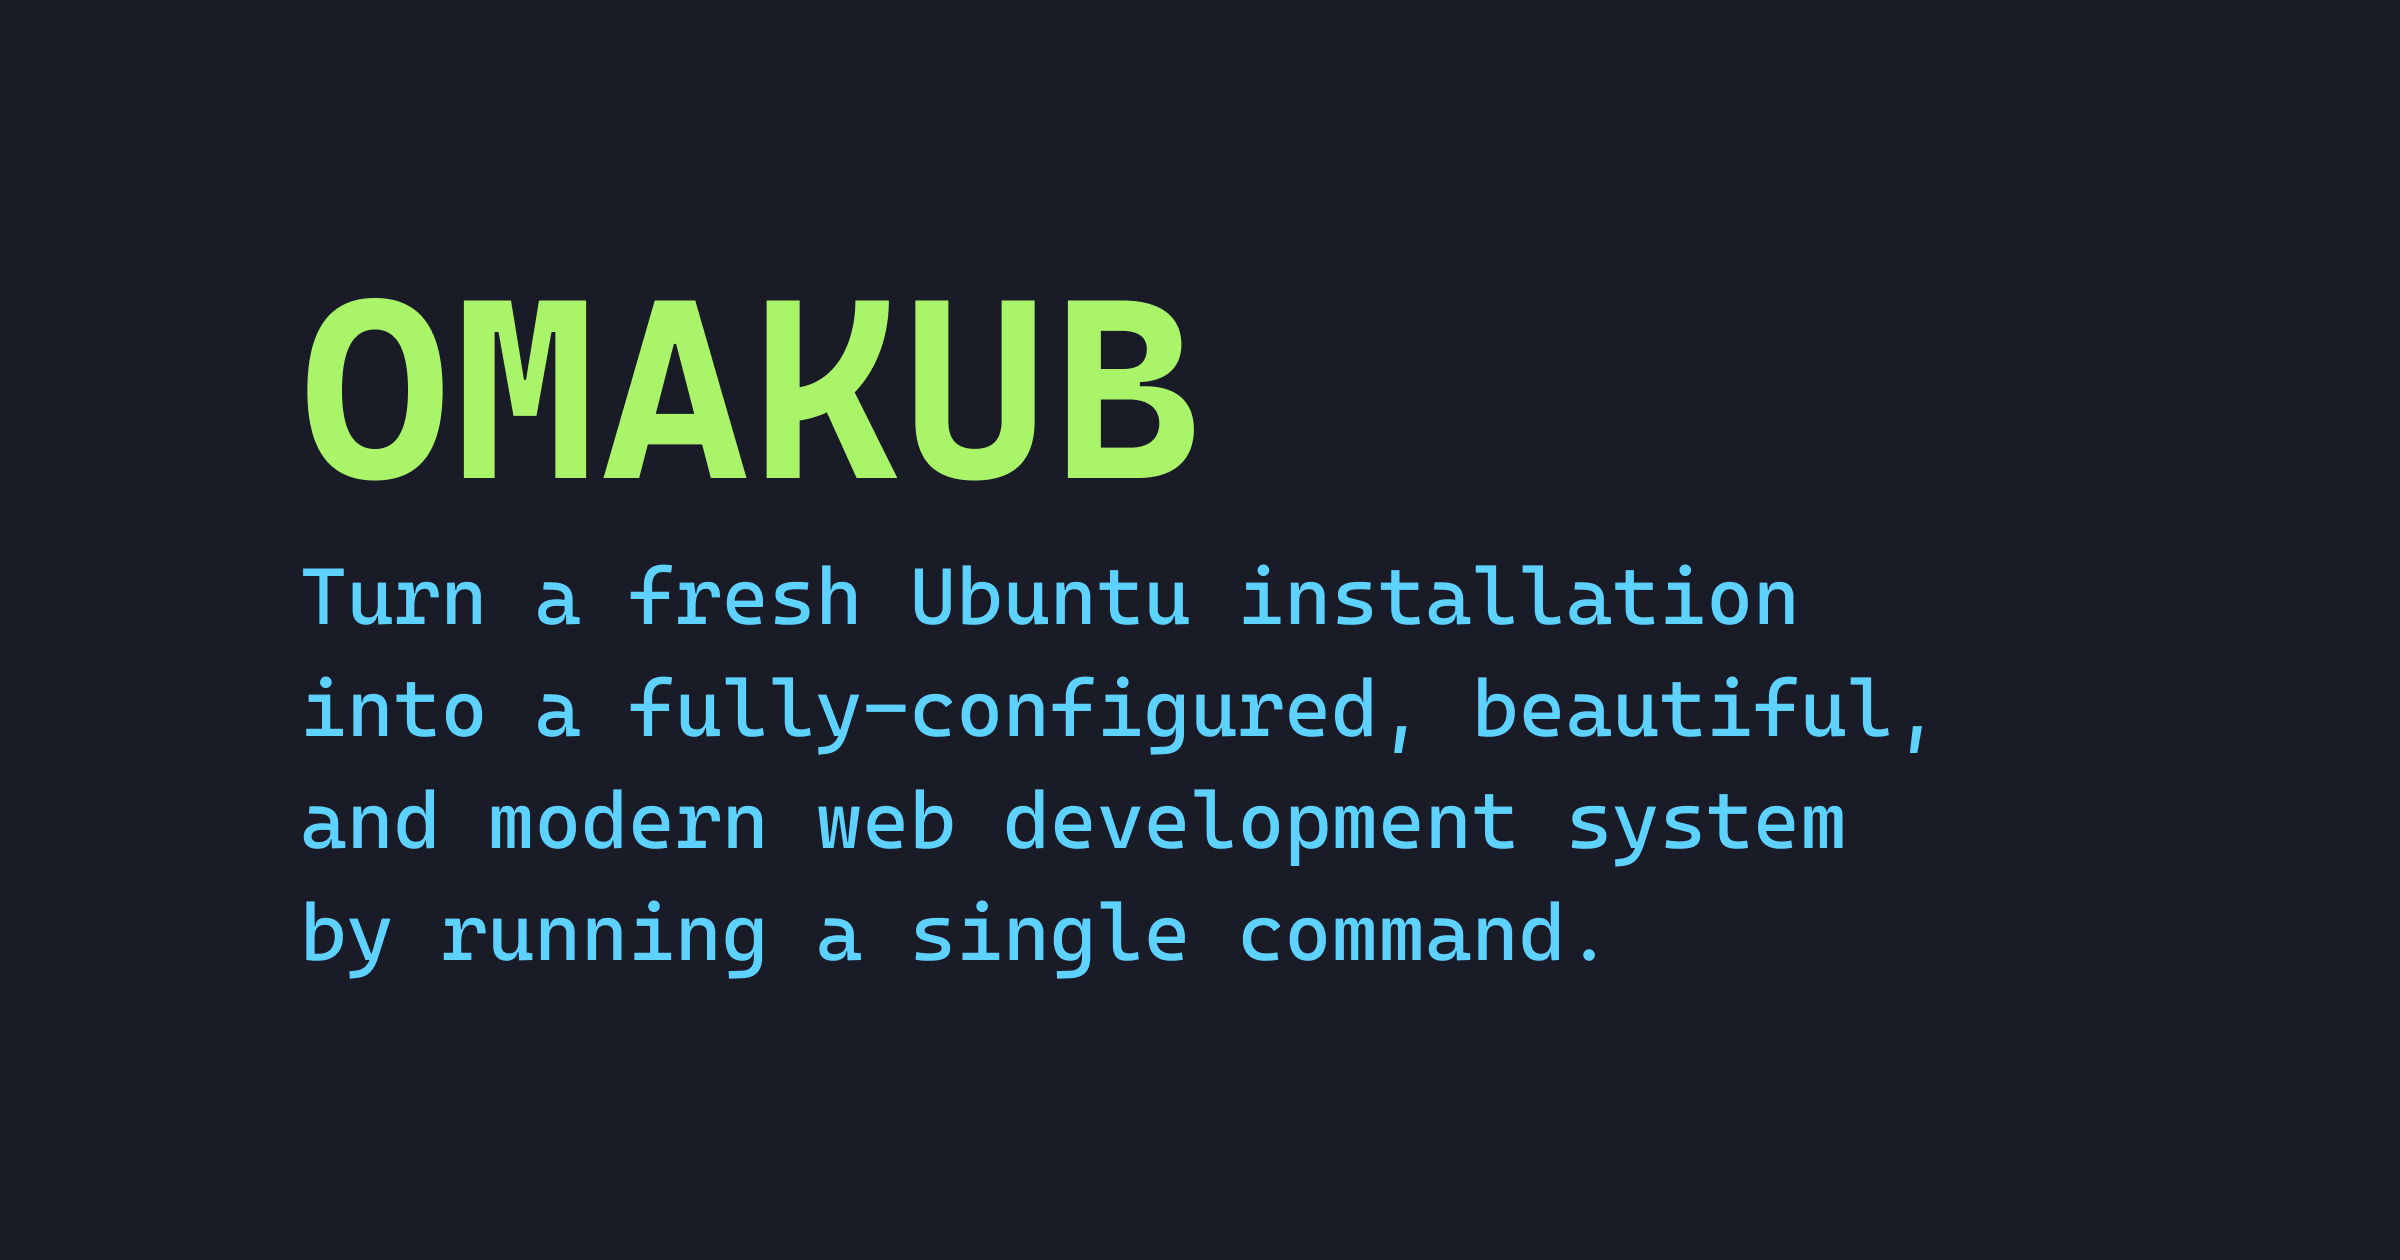
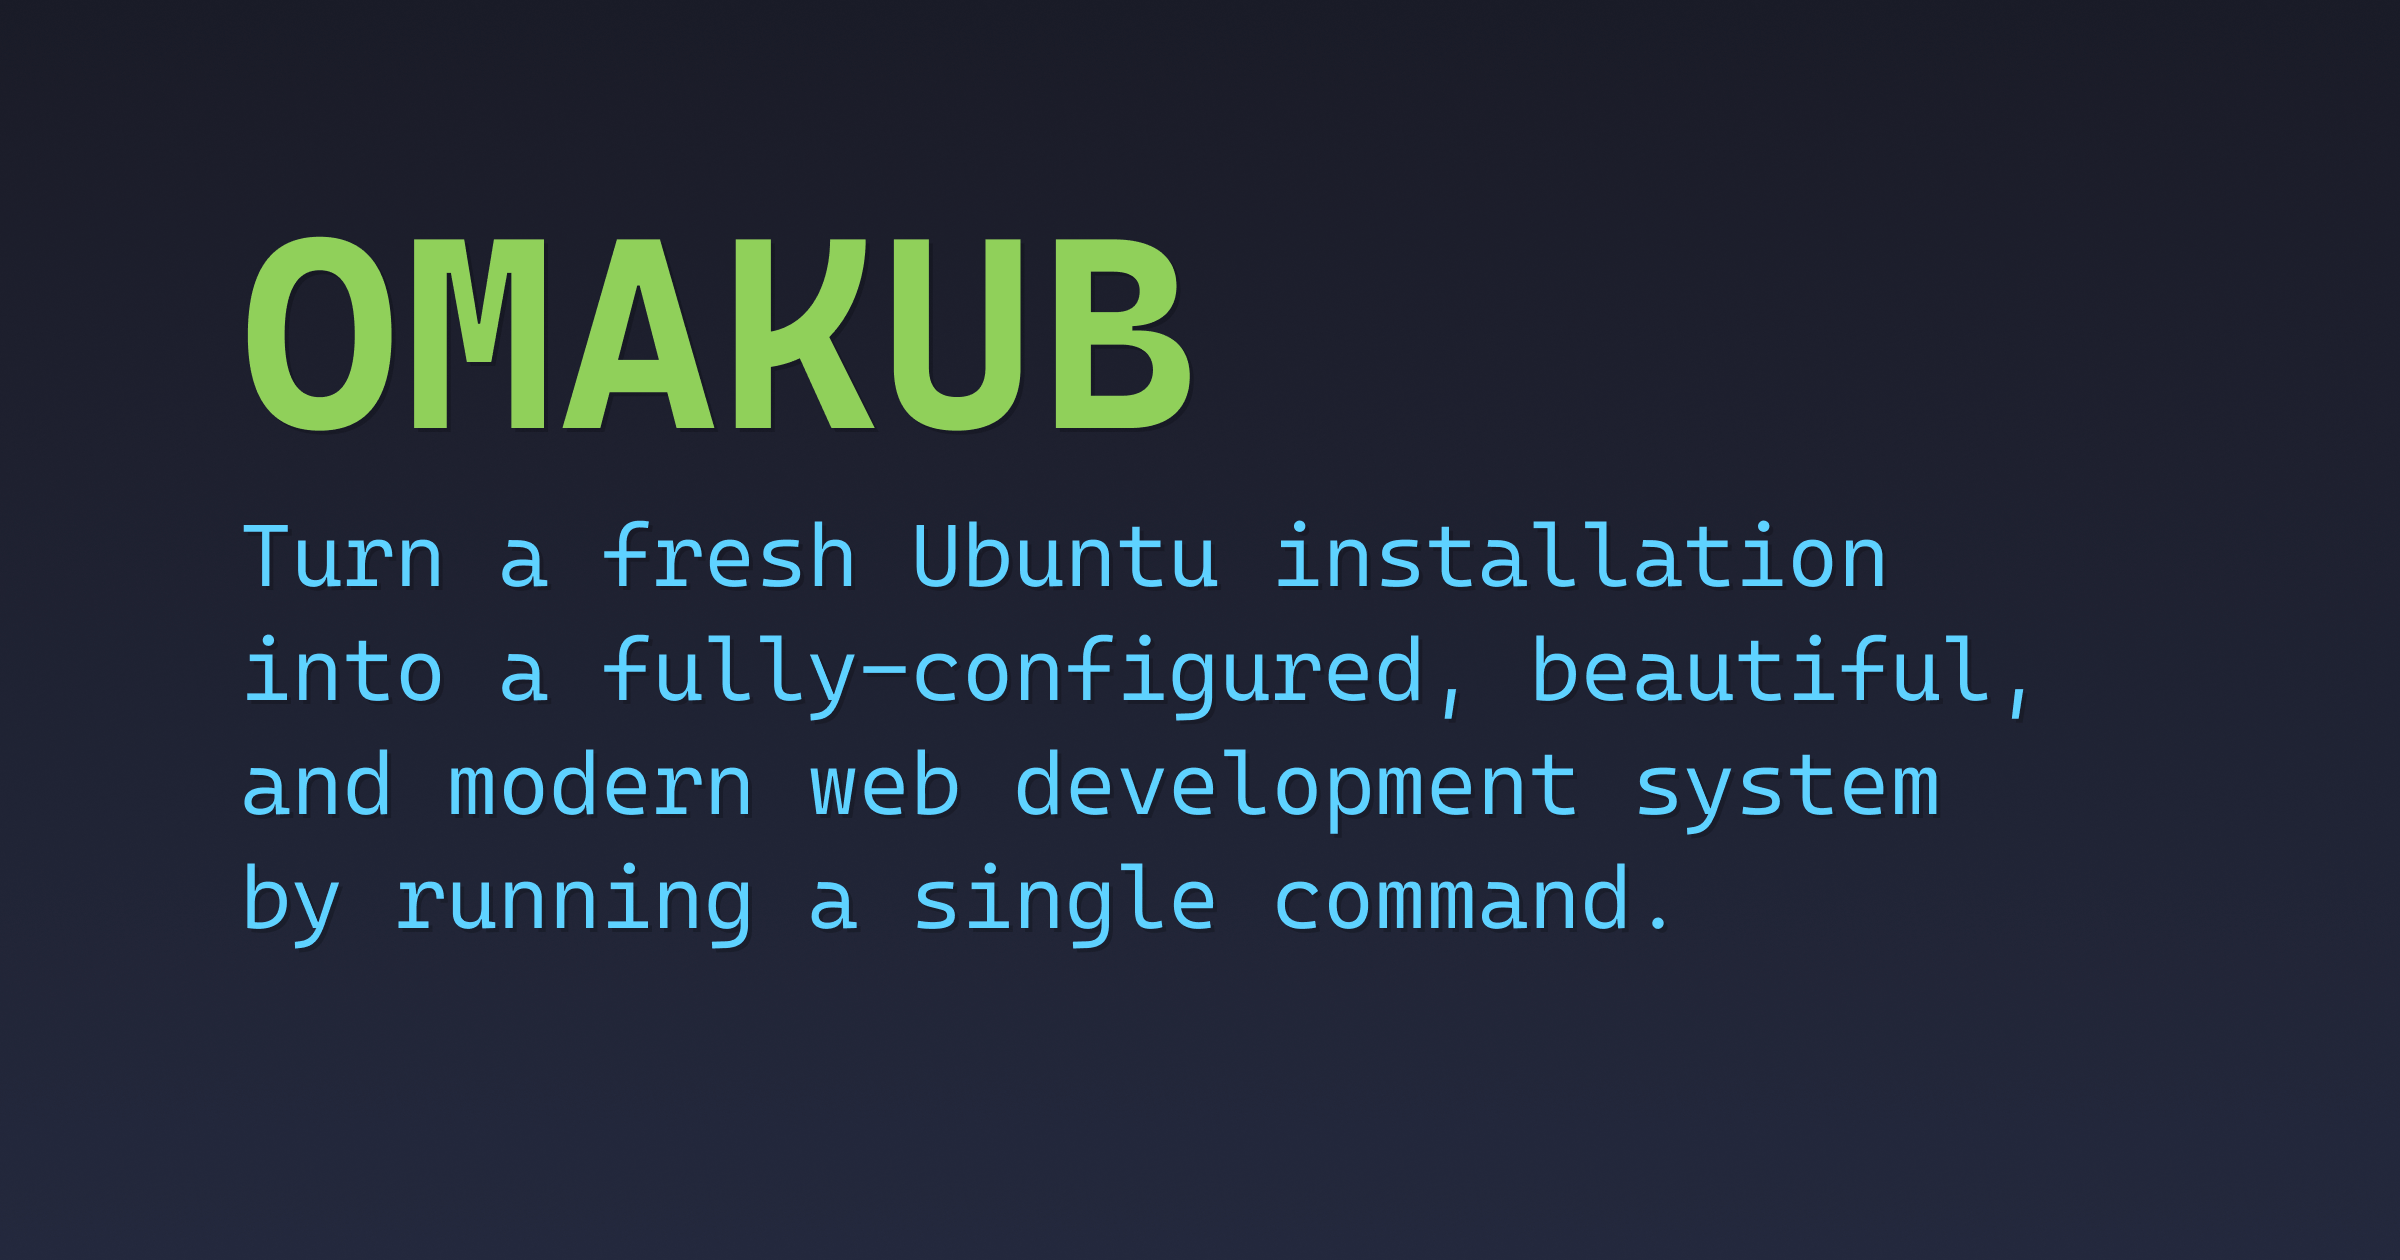
Update root colors

Changed region(s): [[0.0938, 0.1857, 0.8438, 0.7738]]

diff --git a/assets/sass/_article.scss b/assets/sass/_article.scss
@@ -28,7 +28,7 @@
   hr {
 
     --spacing: 0;
-    background: var(--color-dark-3);
+    background: var(--color-terminal-black);
     height: 2px;
     margin-bottom: 2.525em;
     margin-top: 2.625em;
@@ -44,47 +44,36 @@
     padding-left: 1.4em;
   }
 
-  a {
-    color: var(--color-blue);
-    font-weight: 700;
-    text-decoration-thickness: 0.0875em;
-    text-underline-offset: 0.125em;
+  i,
+  em {
+    color: var(--color-terminal-white);
   }
 
   code {
-    background: var(--color-dark-2);
+    background: var(--color-background-storm);
     border-radius: 0.1em;
-    color: var(--color-blue);
+    color: var(--color-turquoise);
     display: inline-block;
     line-height: 1;
     padding: 0.15em 0.3em;
   }
 
-  .highlight {
-
-    background: var(--color-dark-2);
-    border-radius: 0.2em;
-    display: block;
-    line-height: var(--line-height);
-
-    pre {
-
-      overflow-x: auto;
-      padding: 0.6em 1.2em;
-      white-space: pre;
-
-      code {
-        background: none;
-        border-radius: initial;
-        padding: 0;
-      }
-
-    }
-
+  .command pre code {
+    background: none;
+    border-radius: initial;
+    padding: 0;
   }
 
   & > * + * {
     margin-top: var(--spacing, 1.3em);
+  }
+
+  @media(hover: hover) {
+
+    h2 a:hover {
+      color: inherit;
+    }
+
   }
 
   @media(min-width: 64em) {
@@ -96,18 +85,6 @@
     hr {
       margin-bottom: 3.475em;
       margin-top: 3.65em;
-    }
-
-  }
-
-  @media(hover: hover) {
-
-    h2 a:hover {
-      color: inherit;
-    }
-
-    a:hover {
-      color: var(--color-white);
     }
 
   }

diff --git a/assets/sass/_root.scss b/assets/sass/_root.scss
@@ -1,23 +1,25 @@
 :root {
 
+  --rgb-background-night: 26, 27, 38;
+  --rgb-background-storm: 36, 40, 59;
   --rgb-black: 0, 0, 0;
-  --rgb-blue: 125, 207, 255;
-  --rgb-dark-1: 26, 27, 38;
-  --rgb-dark-2: 31, 35, 53;
-  --rgb-dark-3: 59, 66, 97;
-  --rgb-green: 185, 242, 124;
-  --rgb-purple-1: 122, 162, 247;
-  --rgb-purple-2: 192, 202, 245;
+  --rgb-green: 158, 206, 106;
+  --rgb-terminal-black: 65, 72, 104;
+  --rgb-terminal-blue: 122, 162, 247;
+  --rgb-terminal-cyan: 125, 207, 255;
+  --rgb-terminal-white: 192, 202, 245;
+  --rgb-turquoise: 180, 249, 248;
   --rgb-white: 255, 255, 255;
 
+  --color-background-night: rgb(var(--rgb-background-night));
+  --color-background-storm: rgb(var(--rgb-background-storm));
   --color-black: rgb(var(--rgb-black));
-  --color-blue: rgb(var(--rgb-blue));
-  --color-dark-1: rgb(var(--rgb-dark-1));
-  --color-dark-2: rgb(var(--rgb-dark-2));
-  --color-dark-3: rgb(var(--rgb-dark-3));
   --color-green: rgb(var(--rgb-green));
-  --color-purple-1: rgb(var(--rgb-purple-1));
-  --color-purple-2: rgb(var(--rgb-purple-2));
+  --color-terminal-black: rgb(var(--rgb-terminal-black));
+  --color-terminal-blue: rgb(var(--rgb-terminal-blue));
+  --color-terminal-cyan: rgb(var(--rgb-terminal-cyan));
+  --color-terminal-white: rgb(var(--rgb-terminal-white));
+  --color-turquoise: rgb(var(--rgb-turquoise));
   --color-white: rgb(var(--rgb-white));
 
   --font-family: 'Cascadia Code', Menlo, Monaco, Consolas, 'Courier New',  monospace;

diff --git a/assets/sass/_button.scss b/assets/sass/_button.scss
@@ -1,10 +1,18 @@
 .button {
 
   align-items: center;
-  background: var(--color-purple-1);
+  background: var(--color-terminal-blue);
   border: none;
   border-radius: 0.4em;
-  color: var(--color-dark-1);
+  box-shadow:
+    0 1px 0 0 rgba(var(--rgb-black), 0.1),
+    0 0.2em 1.2em -0.4em rgba(var(--rgb-black), 0.2),
+    0 0.4em 2.0em -0.8em rgba(var(--rgb-black), 0.3),
+    0 0.4em 0.4em -0.8em rgba(var(--rgb-black), 0.4),
+    0 0.8em 0.8em -1.2em rgba(var(--rgb-black), 0.5),
+    0 1.2em 1.2em -1.6em rgba(var(--rgb-black), 0.6)
+  ;
+  color: var(--color-background-night);
   cursor: pointer;
   display: flex;
   font-weight: 700;
@@ -21,22 +29,16 @@
   ;
 
   svg {
-
     height: 1.4em;
     overflow: visible;
     width: 1.4em;
-
-    path {
-      transition: fill var(--transition);
-    }
-
   }
 
   @media(hover: hover) {
 
     &:hover {
-      background: var(--color-white);
-      color: var(--color-dark-1);
+      background: var(--color-turquoise);
+      color: var(--color-background-night);
     }
 
   }

diff --git a/assets/sass/_video.scss b/assets/sass/_video.scss
@@ -29,8 +29,8 @@
     cursor: pointer;
     height: 100%;
     left: 0;
-    position: absolute;
     overflow: hidden;
+    position: absolute;
     top: 0;
     width: 100%;
     z-index: 1;
@@ -38,7 +38,7 @@
     &:after {
       backdrop-filter: blur(5px);
       -webkit-backdrop-filter: blur(5px);
-      background: url(../images/play.svg) center center / 1.8em 1.8em no-repeat rgba(var(--rgb-white), 0.8);
+      background: url(../images/play.svg) center center / 1.8em 1.8em no-repeat rgba(var(--rgb-turquoise), 0.8);
       border-radius: 100%;
       box-shadow:
         0 0 0 1px rgba(var(--rgb-black), 0.05),
@@ -66,7 +66,7 @@
   @media(hover: hover) {
 
     button:hover:after {
-      background-color: rgba(var(--rgb-white), 0.9);
+      background-color: rgba(var(--rgb-turquoise), 0.9);
       transform: scale(1.03);
     }
 

diff --git a/assets/sass/_elements.scss b/assets/sass/_elements.scss
@@ -1,6 +1,6 @@
 html {
 
-  background: var(--color-dark-1);
+  background: var(--color-background-night);
   font-size: 16px;
   scroll-behavior: smooth;
   scroll-padding-top: 3em;
@@ -13,8 +13,8 @@ html {
 
 body {
   align-items: stretch;
-  background: var(--color-dark-1);
-  color: var(--color-purple-1);
+  background: var(--color-background-night);
+  color: var(--color-terminal-blue);
   display: flex;
   flex-direction: column;
   font-family: var(--font-family);
@@ -24,9 +24,10 @@ body {
 }
 
 a {
-  color: inherit;
-  text-decoration-thickness: 0.05em;
-  text-underline-offset: 0.15em;
+  color: var(--color-terminal-cyan);
+  font-weight: 700;
+  text-decoration-thickness: 0.0875em;
+  text-underline-offset: 0.125em;
   transition: color var(--transition);
 }
 

diff --git a/assets/sass/_footer.scss b/assets/sass/_footer.scss
@@ -1,7 +1,6 @@
 .footer {
 
   align-items: center;
-  color: var(--color-blue);
   display: flex;
   flex-direction: column;
   gap: 1.25em;
